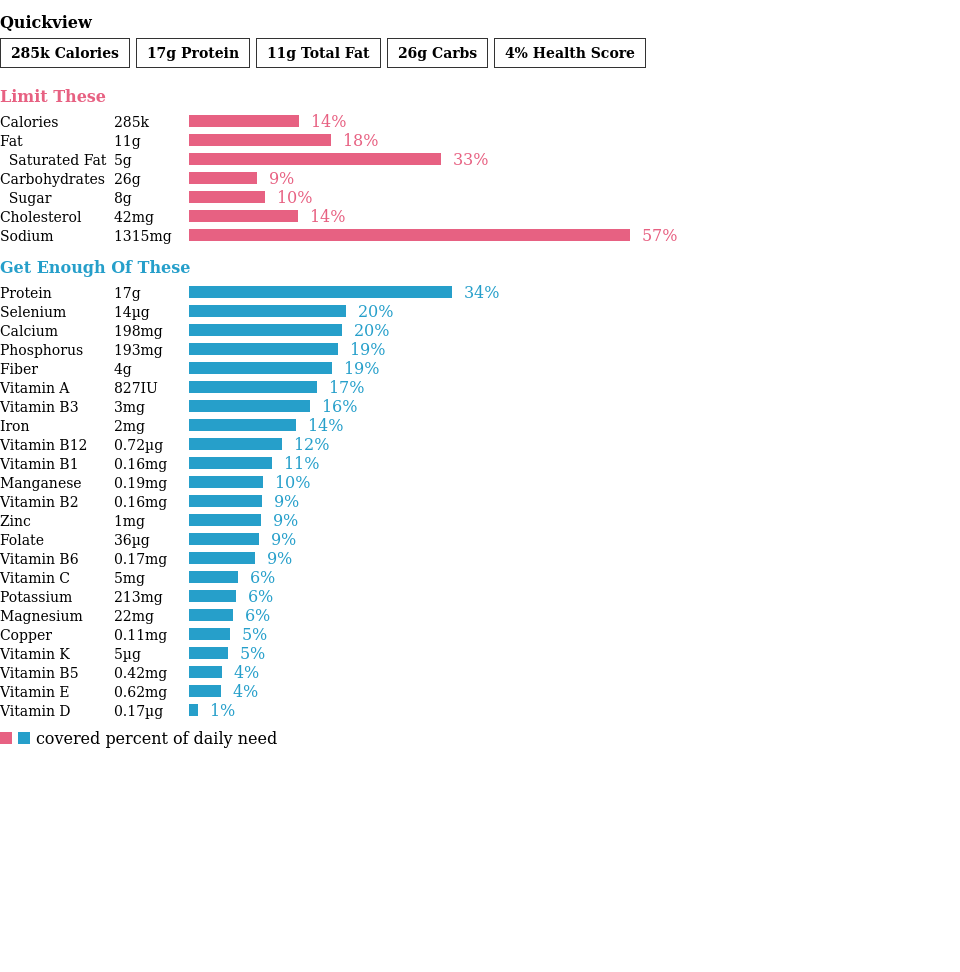
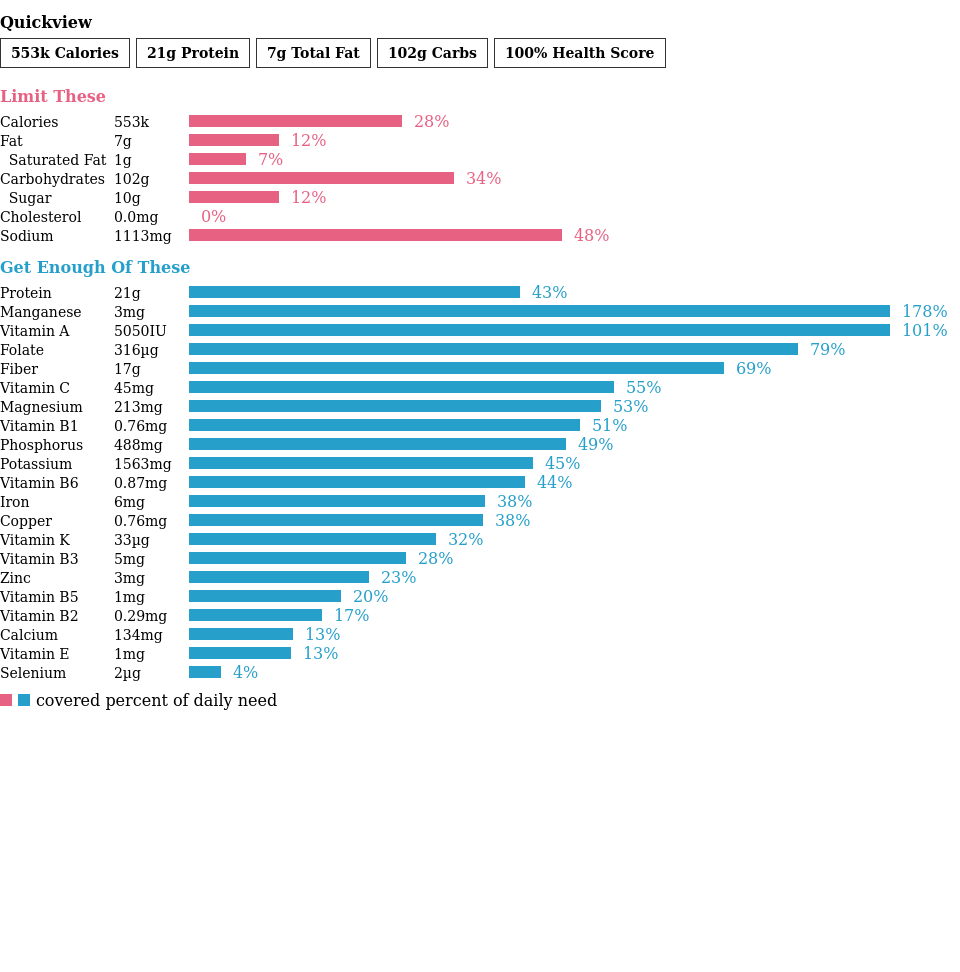
built npm

diff --git a/static/style.css b/static/style.css
@@ -3,33 +3,27 @@ html {
   }
 
 body{
- 
  margin-top: 1em;
  font-family:'Courier New', Courier, monospace;
-
- 
 }
 header{
     padding: 30px;
     text-align: center;
-    background:radial-gradient(#F7DC6F  50%, #DC6FF7 );
+    background:radial-gradient(#F7DC6F  50%, #CAF845);
     color: white;
     font-size: 60px;
     text-shadow: 2px 2px black;
     font-weight: bolder;
-
-    
 }
 .row{
-
     display: flex;
-
 }
 .col{
     flex: 50%
 }
 .ingred{
    padding: 1em;
+   margin-left: 4em;
 }
 #nutrition{
     width: 50px;
@@ -42,9 +36,10 @@ header{
 footer{
     text-align: center;
     padding: 2em;
-    background:radial-gradient(#F7DC6F  50%, #DC6FF7 );
+    background:radial-gradient(#F7DC6F  50%, #CAF845 );
     color: white;
-    
+    text-shadow: 2px 2px black;
+    font-size: large;
 }
 #recipe_pic{
     margin-top: 4em;
@@ -53,5 +48,11 @@ footer{
     background-color:whitesmoke;
 }
 a{
-    color: black;
+    color: white;
+}
+#left-side{
+    margin-left: 4em;
+    font-size: 20px;
+    padding: 0;
+    font-weight: bolder;
 }

diff --git a/templates/recipepage.html b/templates/recipepage.html
@@ -10,15 +10,15 @@
     </header>
 
 
-    <div class="row" style="background: url('{{recipe_img}}') no-repeat center center fixed;background-size: cover; height: 55%;overflow: hidden; width: 100%;
+    <div class="row" style="background: url('{{recipe_img}}') no-repeat center center fixed;background-size: cover; height: 60%;overflow: hidden; width: 100%;
         color:white; text-shadow: 2px 2px black;">
-        <div class="col">
+        <div class="col" id="left-side">
             <h1>{{recipe_title}}</h1>
-            <br>
+
             <h4> Serving Size: {{servings}}</h4>
-            <br>
+
             <h4> Ready in: {{ready_in_mins}} minutes</h4>
-            <br>
+
             <h4>Dish Type</h4>
             {%for i in range(length)%}
             <p>{{dish_types[i]}}</p>

diff --git a/spoonacular.py b/spoonacular.py
@@ -56,10 +56,10 @@ def get_recipe_info(id):
     ingredients = {}
     for i in range(length):
         try:
-
-            ingredients[response_data["extendedIngredients"][i]["name"]] = (
-                IMG_URL + response_data["extendedIngredients"][i]["image"]
-            )
+            if response_data["extendedIngredients"][i]["image"]:
+                ingredients[response_data["extendedIngredients"][i]["name"]] = (
+                    IMG_URL + response_data["extendedIngredients"][i]["image"]
+                )
 
         except KeyError:
             print(KeyError)

diff --git a/app.py b/app.py
@@ -13,7 +13,7 @@ app.config["SEND_FILE_MAX_AGE_DEFAULT"] = 0
 @app.route("/")
 def main():
     # recipe_ids = search_recipe_by_ingred("chicken, tomatoes")
-    recipe_id = 715394
+    recipe_id = 782601
 
     (
         recipe_img,
